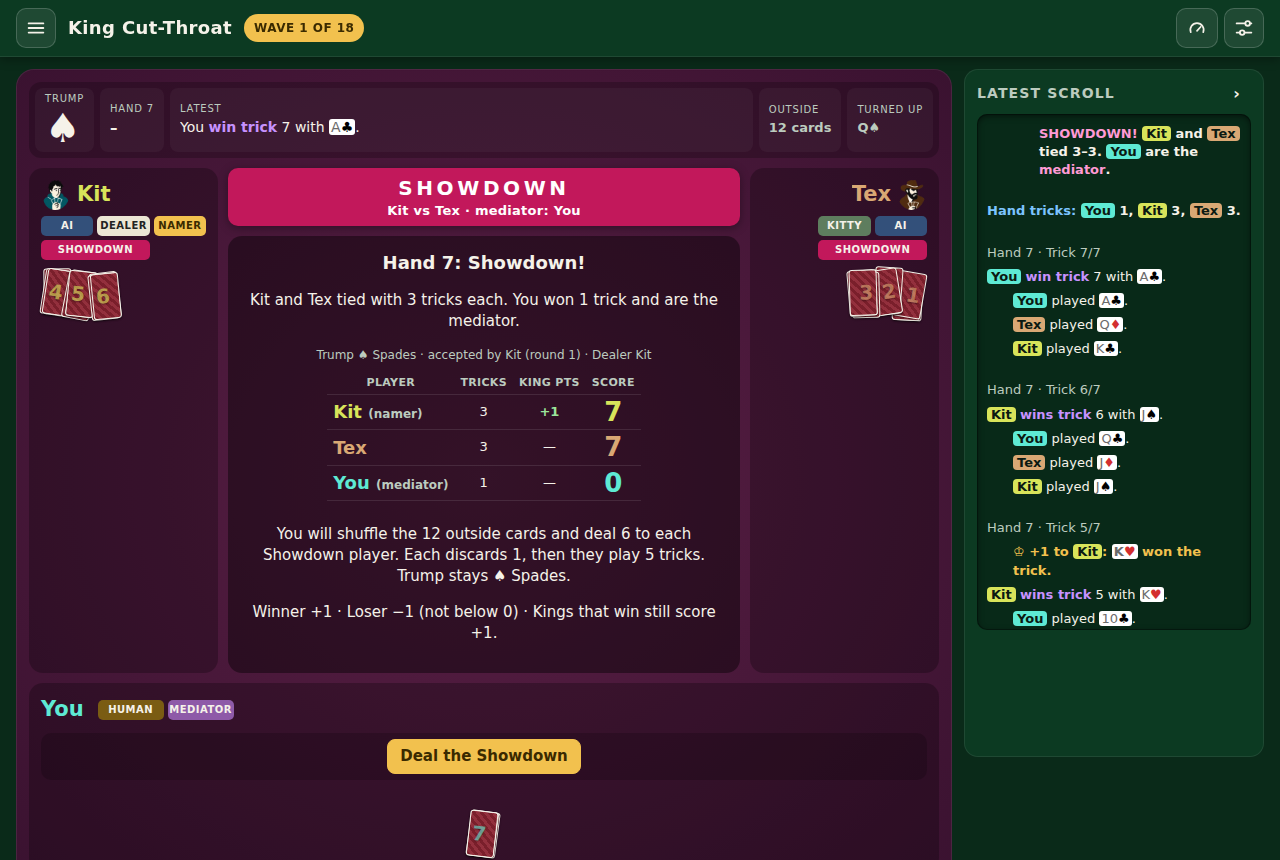
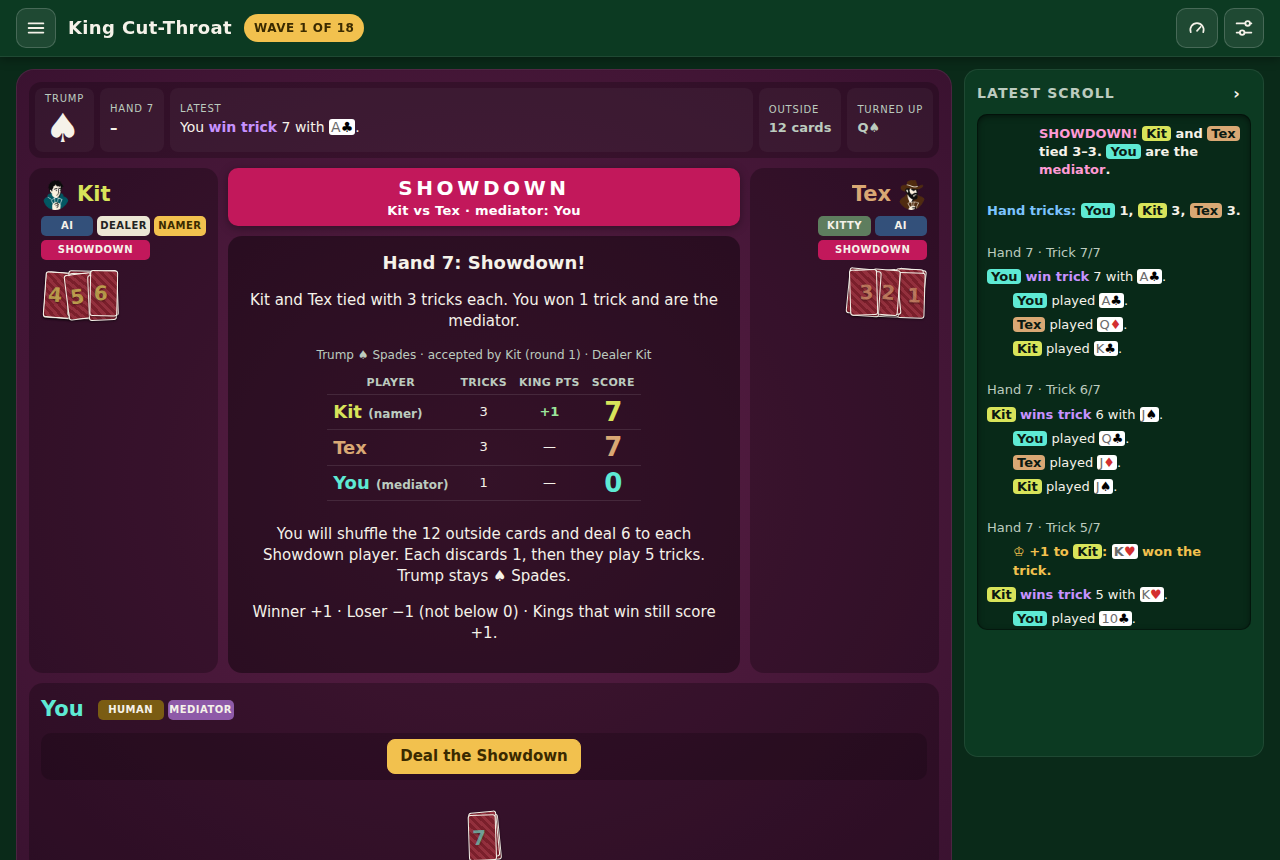
Spread the kitty with a cat back; stack the outside pile; act below
The kitty spreads its few cards so they can be counted; until the
turn-up its top card carries a black cat silhouette at 50% opacity. The
outside pile is a neat squared stack with its count on top. The action
buttons (Discard, Accept, Pass) sit below both piles.

Claude-Session: https://claude.ai/code/session_01QkpazkapUFZWg4SWZB1dDA

Changed region(s): [[0.6562, 0.3023, 0.7188, 0.393], [0.3438, 0.9372, 0.4062, 1.0], [0.0312, 0.3023, 0.0938, 0.393]]

diff --git a/mockups/advanced.js b/mockups/advanced.js
@@ -113,17 +113,18 @@ const css = `
 .trick .slot-0 .pscore{color:var(--ink);font-size:46px;font-weight:800;line-height:1;margin-top:8px;font-variant-numeric:tabular-nums}
 .center > .pscore.pme{left:50%;bottom:8px;top:auto;transform:translateX(-50%)}
 /* Kitty: before the first trick, the kitty lies in the middle of the table as one squared stack; at turn-up its top card is face up. */
-.kitty-spot{display:flex;align-items:center;justify-content:center;gap:calc(var(--cw)*.8);min-height:calc(var(--cw)*3.3)}
+.kitty-spot{display:flex;flex-direction:column;align-items:center;justify-content:center;gap:14px;min-height:calc(var(--cw)*3.3)}
+.kitty-spot .piles-row{display:flex;align-items:center;justify-content:center;gap:calc(var(--cw)*.8)}
+.kpile{position:relative;width:calc(var(--cw)*1.3*1.7);height:calc(var(--cw)*1.3*1.4)}
+.kpile .card{position:absolute;top:0;--w:calc(var(--cw)*1.3);box-shadow:0 2px 5px rgba(0,0,0,.45);transform-origin:50% 90%}
+.kpile .card .cat{position:absolute;left:15%;top:10%;width:70%;height:80%;fill:#000;opacity:.5}
+.pile-act{display:flex;gap:8px}.pile-act .btn{font-size:15px;padding:8px 18px}
 .outpile{position:relative;width:calc(var(--cw)*1.3);height:calc(var(--cw)*1.3*1.4)}
 .outpile .card{position:absolute;left:0;top:0;--w:calc(var(--cw)*1.3);box-shadow:0 2px 4px rgba(0,0,0,.4)}
 .outpile.empty{border:2px dashed #8fa79a;border-radius:calc(var(--cw)*.12)}
-.outpile .op-face{position:absolute;inset:0;z-index:5;display:flex;flex-direction:column;align-items:center;justify-content:center;gap:6px}
+.outpile .op-face{position:absolute;inset:0;z-index:5;display:grid;place-items:center}
 .outpile .op-n{font-size:calc(var(--cw)*.9);font-weight:900;line-height:1;color:rgba(0,0,0,.45)}
 .outpile.empty .op-n{color:rgba(255,255,255,.22)}
-.outpile .op-face .btn{font-size:13px;padding:5px 10px;white-space:nowrap}
-@media (max-width:720px){.outpile .op-face .btn{font-size:11px;padding:3px 6px}}
-.kitty-spot .stack{position:relative;width:calc(var(--cw)*1.3);height:calc(var(--cw)*1.3*1.4)}
-.kitty-spot .stack .card{position:absolute;left:0;top:0;--w:calc(var(--cw)*1.3);box-shadow:0 2px 4px rgba(0,0,0,.4)}
 /* Log: a toggle collapses it to a side tab (wide screens) or a one-line bar (narrow screens). */
 .logpanel h2{display:flex;align-items:center;justify-content:space-between;gap:8px}
 .lp-toggle{all:unset;cursor:pointer;width:28px;height:28px;display:grid;place-items:center;border-radius:8px;color:var(--ink);font-size:16px}
@@ -208,23 +209,32 @@ for (const sl of $$('.trick .slot')) if (!sl.style.zIndex) sl.style.zIndex = Str
 
 log.scrollTop = 0;
 
-// Kitty in the middle of the table before the first trick.
+// Kitty in the middle of the table before the first trick: spread, so its few cards can be counted. Until the
+// turn-up, the top card carries a black cat silhouette at 50% opacity.
+const CAT = '<svg class="cat" viewBox="0 0 64 80" aria-hidden="true"><path d="M20 6l5 9c2-.6 4-.9 6-.9s4 .3 6 .9l5-9 2 13c2 3 3 6 3 9 0 5-2 9-6 12 6 5 10 13 10 22 0 6-1 10-3 13h6c4 0 6-2 6-5s-2-4-4-4c-2 0-3 1-3 3h-3c0-4 3-6 6-6 5 0 7 3 7 7 0 5-4 8-9 8H17c-3 0-5-2-5-4s1-4 3-5c-2-4-3-8-3-13 0-9 4-17 10-22-4-3-6-7-6-12 0-3 1-6 3-9z"/></svg>';
 const kitty = $$('.center .piles .pile').find(p => /Kitty/.test(p.textContent));
 if (kitty && !$('.center .trick')) {
-  const cards = $$('.pile-cards .card', kitty).reverse();
-  $('.center .piles').insertAdjacentHTML('afterend', '<div class="kitty-spot" aria-label="Kitty"><div class="stack">' +
-    cards.map((c, i) => c.outerHTML.replace('class="card', 'style="transform:translate(' + (i * 2) + 'px,' + (-i * 2) + 'px)" class="card')).join('') + '</div></div>');
+  const cards = $$('.pile-cards .card', kitty).reverse(), top = cards.length - 1;
+  $('.center .piles').insertAdjacentHTML('afterend', '<div class="kitty-spot"><div class="piles-row"><div class="kpile" aria-label="Kitty: ' + cards.length + ' cards">' +
+    cards.map((c, i) => c.outerHTML.replace('class="card', 'style="left:' + (i * 34) + '%;transform:rotate(' + ((i - top / 2) * 4) + 'deg)" class="card')
+      .replace(/<\/div>$/, i === top && /\bback\b/.test(c.className) ? CAT + '</div>' : '</div>')).join('') + '</div></div></div>');
 }
-// Discard phase: the outside pile grows beside the kitty. Its count sits on the top card in transparent black,
-// and the Discard button sits under the number, so you discard onto the pile.
+// Discard phase: the outside pile is a neat squared stack beside the kitty, its count on the top card in transparent
+// black. The action button sits below both piles.
 const discardBtn = $('[data-action="confirm-discard"]');
 if (discardBtn && $('.kitty-spot')) {
   const n = window.__outside != null ? window.__outside : $$('.seat .discard-note, .me .discard-note').filter(d => /Discarded/.test(d.textContent)).length * 3;
-  const rnd = a => (Math.random() * 2 - 1) * a;
-  const backs = Array.from({ length: Math.min(n, 5) }, () => '<div class="card back" style="transform:translate(' + rnd(4).toFixed(1) + 'px,' + rnd(4).toFixed(1) + 'px) rotate(' + rnd(10).toFixed(1) + 'deg)"></div>').join('');
-  $('.kitty-spot').insertAdjacentHTML('beforeend', '<div class="outpile' + (n ? '' : ' empty') + '" aria-label="Outside pile: ' + n + ' cards">' + backs +
-    '<div class="op-face"><b class="op-n">' + n + '</b></div></div>');
-  $('.outpile .op-face').appendChild(discardBtn);
+  const layers = Math.min(Math.ceil(n / 3), 4);
+  const backs = Array.from({ length: layers }, (_, i) => '<div class="card back" style="transform:translate(' + i * 1.5 + 'px,' + (-i * 1.5) + 'px)"></div>').join('');
+  $('.kitty-spot .piles-row').insertAdjacentHTML('beforeend', '<div class="outpile' + (n ? '' : ' empty') + '" aria-label="Outside pile: ' + n + ' cards">' + backs +
+    '<div class="op-face" style="transform:translate(' + Math.max(0, layers - 1) * 1.5 + 'px,' + (-Math.max(0, layers - 1) * 1.5) + 'px)"><b class="op-n">' + n + '</b></div></div>');
+  $('.kitty-spot').insertAdjacentHTML('beforeend', '<div class="pile-act"></div>');
+  $('.kitty-spot .pile-act').appendChild(discardBtn);
+}
+// Bidding: the same rule, the action buttons go below the kitty.
+if (!discardBtn && $('.kitty-spot') && $('.actionbar .btn')) {
+  $('.kitty-spot').insertAdjacentHTML('beforeend', '<div class="pile-act"></div>');
+  for (const b of $$('.actionbar .btn')) $('.kitty-spot .pile-act').appendChild(b);
 }
 // Log toggle.
 const lpH = $('.logpanel h2'), collapsed = !!window.__collapsed;
